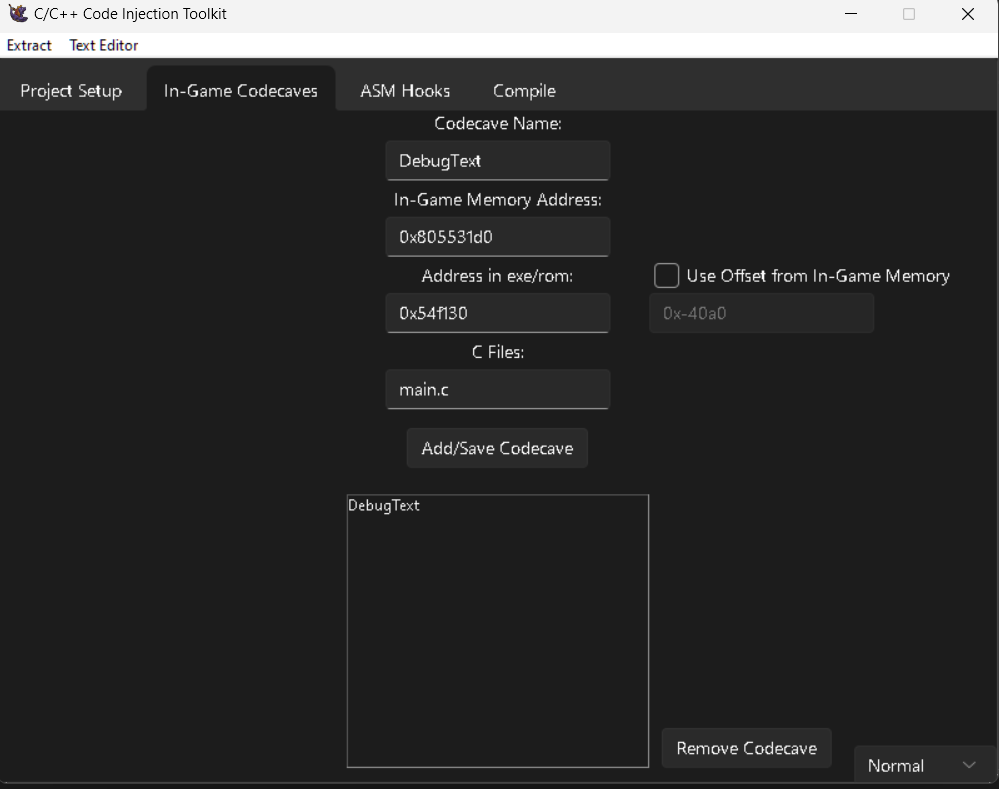
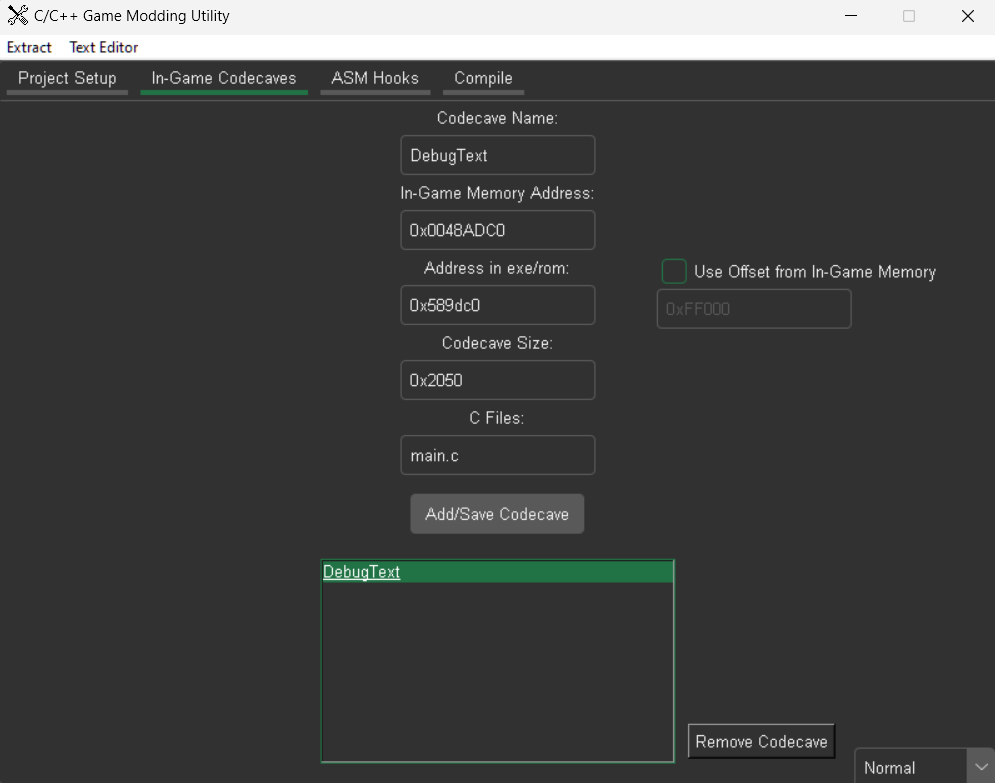
Update

diff --git a/README.md b/README.md
@@ -29,10 +29,11 @@ At a high level, here is how injecting mod code into a game using this utility w
 1.  **Code caves:** First things first, we need a free place in the games ram that can be used for the mod code. The easiest way is to look for unused/free sections of the games main executable, that also still happens to get loaded into ram. These free sections are called [code caves.](https://en.wikipedia.org/wiki/Code_cave)  (*These can unused/debug strings, unused functions/code, sometimes a block of 0's, etc*. If you need help finding a code cave, [see here](https://github.com/C0mposer/C-Game-Modding-Utility/wiki/Finding-a-Code-Cave))
 Once you have found a code cave you fill out its info, and click "**Add/Save Codecave**": 
 ![codecaves](images/codecaves.png)
-a. Give the codecave a name  
+a. Give the code cave a name  
 b. Fill out the address in RAM  
 c. Fill out the equivalent address in main executable (or enter offset)  
-d. Choose .c/.cpp files in your projects *src/* dir you'd like to be compiled into the codecave area  
+d. Fill out the size of the code cave
+e. Choose .c/.cpp files in your projects *src/* dir you'd like to be compiled into the codecave area  
 (*main.c is used by default. For multiple files, seperate by comma or space*)  
   
 2. **Hooks:** Once you have found a code cave to place your custom mod code into, you'll need a way to get the game to actually run it! This is where a [hook](https://en.wikipedia.org/wiki/Hooking#:~:text=Function%20hooking%20is%20implemented%20by,injected%20code) comes in. A hook is a function in the original game, from which we redirect to our custom code. The most simple and useful type of hook for a mod is a function in the original game that gets ran every frame. Our custom code runs whenever the hooked function runs. So if our hook runs every frame, so will our custom code!  
